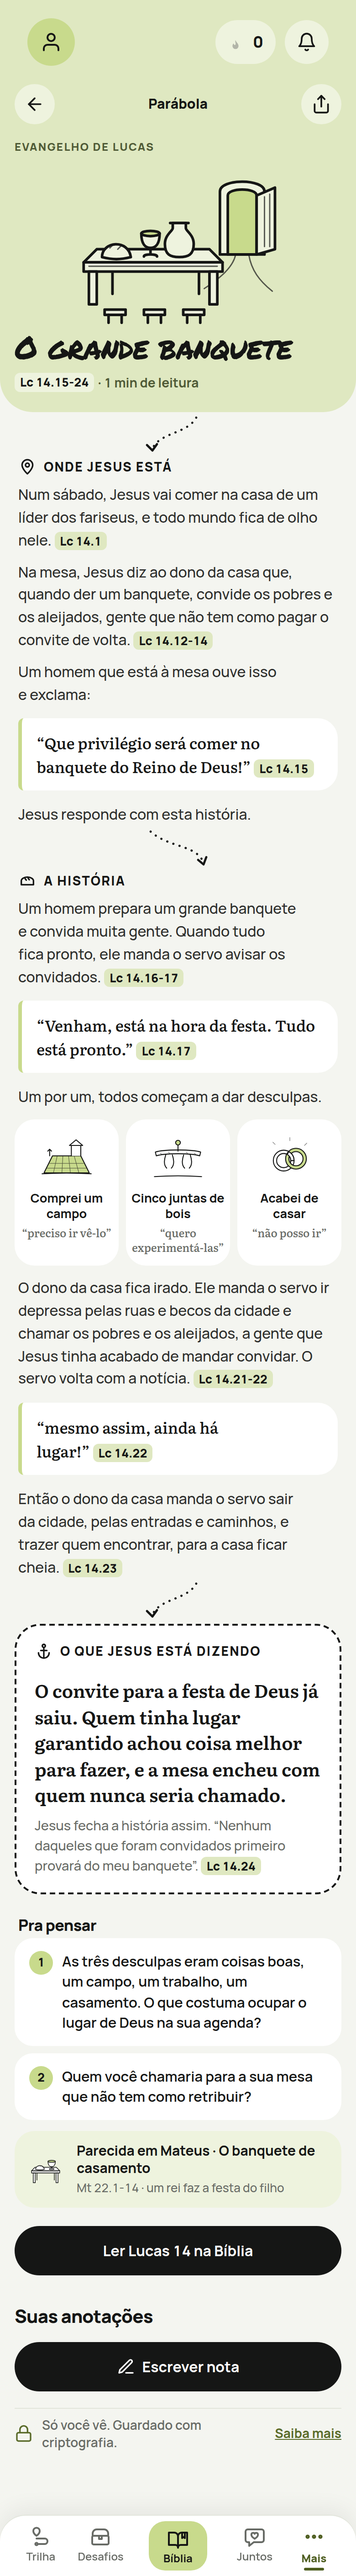
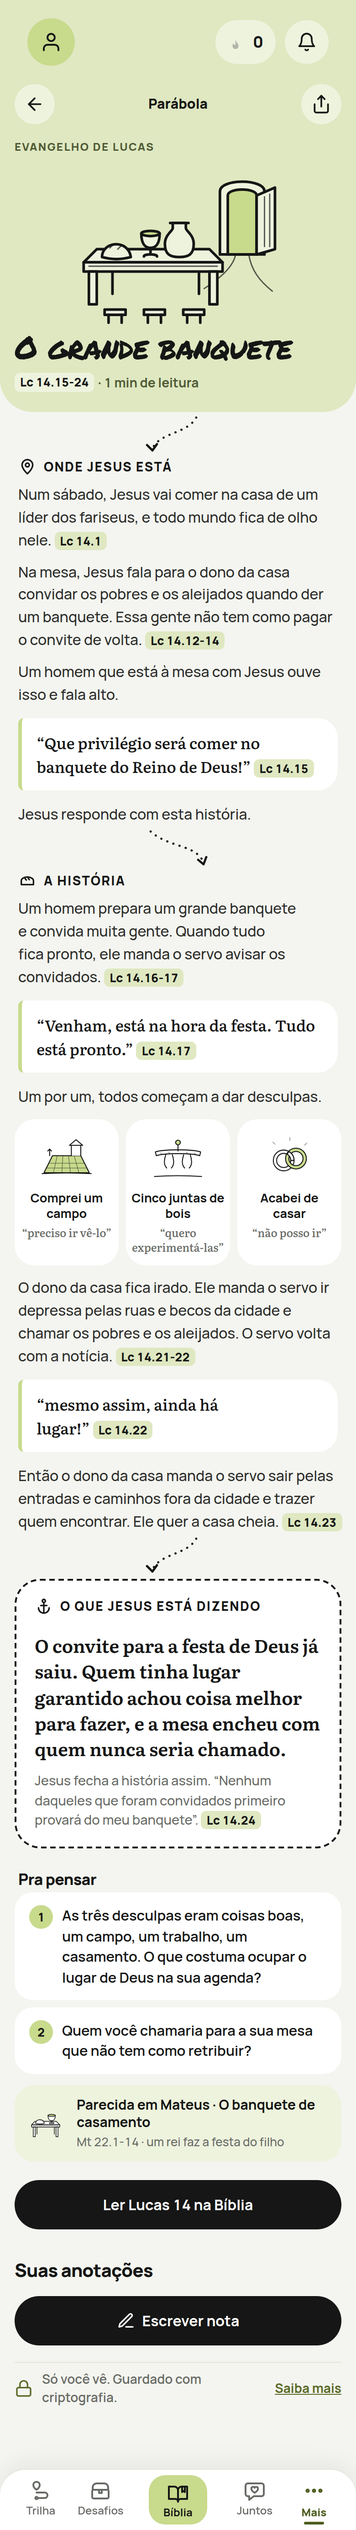
Parábola do bom samaritano e revisão de voz do Grande Banquete
O bom samaritano (Lc 10.25-37): três seções, os três que passam pela
estrada com desenho, e o desenho novo da estrada que desce de Jerusalém
para Jericó. No Grande Banquete, sem o dois-pontos antes da fala, sem o
inciso no meio da frase e sem "a gente que Jesus tinha acabado de mandar
convidar". O voltar redondo das parábolas leva o rótulo pronto e não
ganha mais "Voltar" escrito. O teste abre cada publicada e captura.

Claude-Session: https://claude.ai/code/session_0181e5xzHUW8QLQRgjbfooCS

diff --git a/src/app/06c-parabolas.js b/src/app/06c-parabolas.js
@@ -56,8 +56,8 @@
     if (slug !== null && !item) return CC.vazio(raiz, 'Não encontrei essa parábola.');
     const pintar = (p) => pronto(P.tela)(raiz, item, p);
     if (pronto(P.tela) && (!item || pronto(item.arquivo))) { pintar(item && pronto(item.arquivo)); return; }
-    raiz.innerHTML = '<div class="folha-mapa"><div class="mapa-barra"><button class="botao-redondo" data-voltar aria-label="Voltar">'
-      + CC.ico('voltar') + '<span class="so-leitor">' + (item ? 'Parábolas' : 'Explorar') + '</span></button></div></div>' + CC.esqueleto('texto');
+    raiz.innerHTML = '<div class="folha-mapa"><div class="mapa-barra"><button class="botao-redondo" data-voltar data-rotulo-voltar="'
+      + (item ? 'Parábolas' : 'Explorar') + '" aria-label="Voltar">' + CC.ico('voltar') + '</button></div></div>' + CC.esqueleto('texto');
     CC.ligarVoltarDoTopo(raiz);
     if (!CC.appServido()) { raiz.querySelector('.esqueleto').outerHTML = '<div class="vazio">Aberto como arquivo solto, o aplicativo não tem de onde trazer as parábolas.</div>'; return; }
     const geracao = (raiz.dataset.parabolaGeracao = String(Date.now()));

diff --git a/src/sob-demanda/parabola-tela.js b/src/sob-demanda/parabola-tela.js
@@ -31,7 +31,8 @@
     CC.gravar('parabolasLidas', { ...atuais, [slug]: CC.hojeIso() });
   }
   const barra = (titulo, voltar, extra) => '<div class="mapa-barra">'
-    + '<button class="botao-redondo" data-voltar aria-label="Voltar">' + CC.ico('voltar') + '<span class="so-leitor">' + voltar + '</span></button>'
+    // o rótulo vai pronto no data-rotulo-voltar: o roteador não escreve "Voltar" visível no botão redondo
+    + '<button class="botao-redondo" data-voltar data-rotulo-voltar="' + voltar + '" aria-label="Voltar">' + CC.ico('voltar') + '</button>'
     + '<span class="mapa-barra-titulo">' + titulo + '</span>' + (extra || '<span class="parabola-vaga"></span>') + '</div>';
 
   // ---------- a lista ----------
